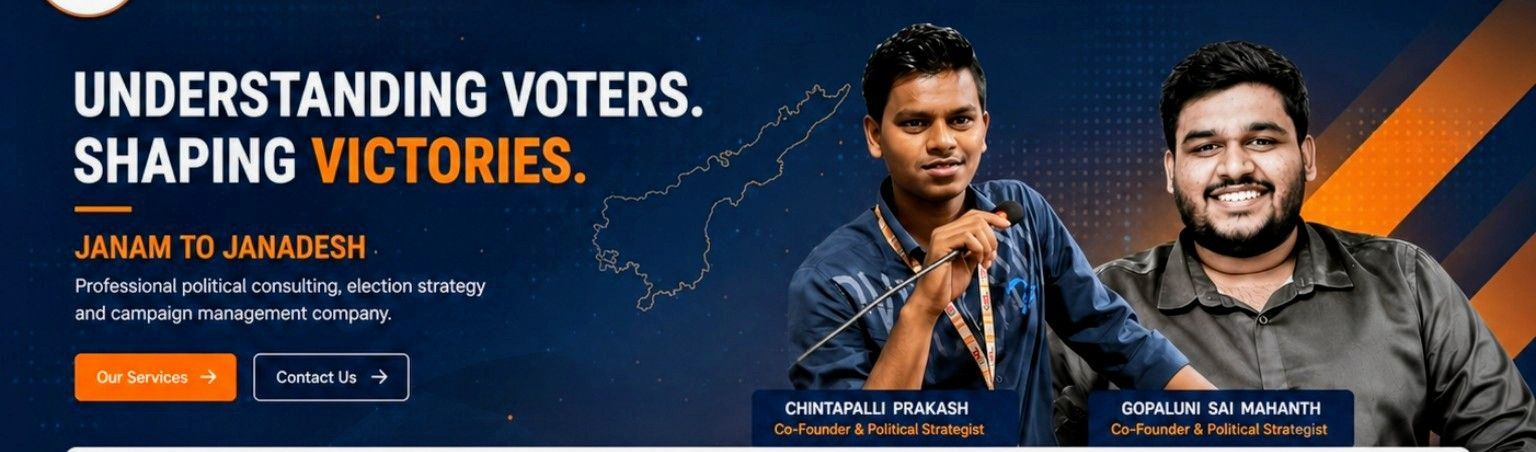
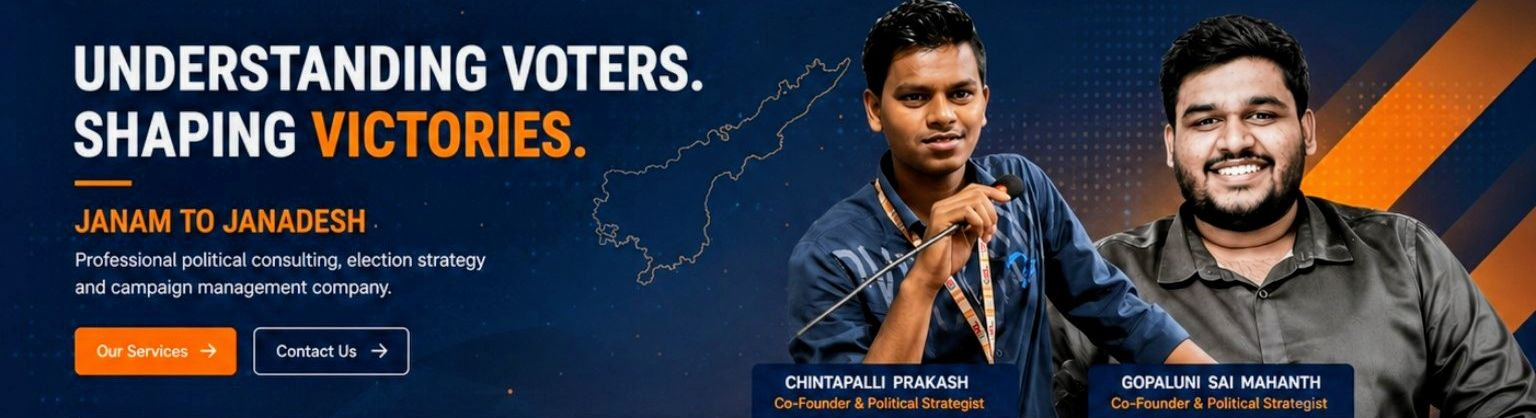
Add files via upload

diff --git a/index.html b/index.html
@@ -263,7 +263,7 @@ footer .row{display:flex;flex-wrap:wrap;justify-content:space-between;gap:8px}
 <main>
   <section class="banner" id="home">
     <div class="wrap">
-      <img src="banner.jpg" alt="MP Solutions. Understanding voters. Shaping victories. Janam to Janadesh. Co-founders Chintapalli Prakash and Gopaluni Sai Mahanth." width="1536" height="452" fetchpriority="high" decoding="async">
+      <img src="banner.jpg" alt="MP Solutions. Understanding voters. Shaping victories. Janam to Janadesh. Co-founders Chintapalli Prakash and Gopaluni Sai Mahanth." width="1536" height="418" fetchpriority="high" decoding="async">
     </div>
   </section>
 
